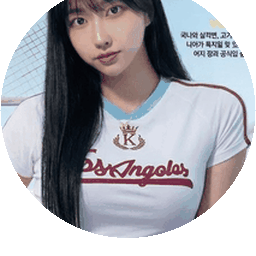
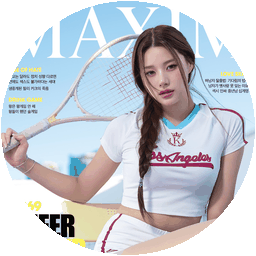
fix: 섹시테란 길드마크 원본 표지 구도 복원

diff --git a/src/renewal/app.js b/src/renewal/app.js
@@ -59,7 +59,7 @@ import { createMiniGameController } from './minigame-controller.js?v=20260727113
 import { executeCommandWithVersionRetry } from './server-command-retry.js';
 import { createWorldBossController } from './worldboss-controller.js?v=202607271325';
 import { createRankingController } from './ranking-controller.js?v=202607271325';
-import { createGuildController } from './guild-controller.js?v=202607281325';
+import { createGuildController } from './guild-controller.js?v=202607281332';
 import { createFxController } from './fx-controller.js?v=202607271325';
 import { cardVisualChrome, enhancementLabel, enhancementStarMarkup, rarityMarkMarkup } from './card-visual.js?v=202607271325';
 import { applyLocalTestProfile } from './local-test-profile.js';

diff --git a/src/renewal/guild-emblem.js b/src/renewal/guild-emblem.js
@@ -11,7 +11,7 @@ export const EMBLEM_GLYPHS = Object.freeze({
 // gacha_s2_guild_emblems 행 삽입 + 여기 한 줄이면 된다.
 // 파일명을 그대로 두고 이미지를 교체하면(크롭 조정 등) 브라우저가 옛 파일을 계속 쓴다.
 // 그래서 경로에 버전을 붙인다. 이미지를 새로 만들 때마다 이 값을 올릴 것.
-const EMBLEM_ASSET_VERSION = '202607281325';
+const EMBLEM_ASSET_VERSION = '202607281332';
 
 export const EMBLEM_IMAGES = Object.freeze({
   ilsin: `assets/renewal/guild/emblems/ilsin.png?v=${EMBLEM_ASSET_VERSION}`,

diff --git a/index.html b/index.html
@@ -878,6 +878,6 @@
   </dialog>
 
   <script src="runtime-config.js?v=4"></script>
-  <script type="module" src="src/renewal/app.js?v=202607281325"></script>
+  <script type="module" src="src/renewal/app.js?v=202607281332"></script>
 </body>
 </html>
